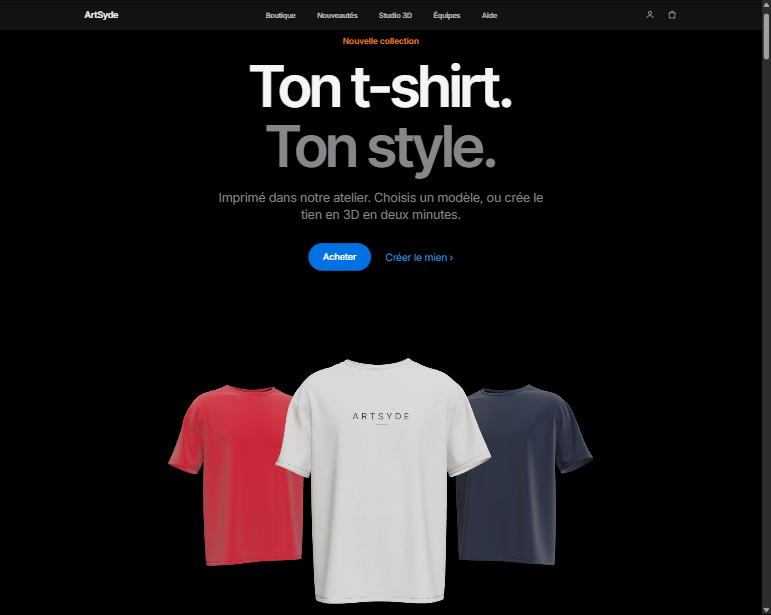
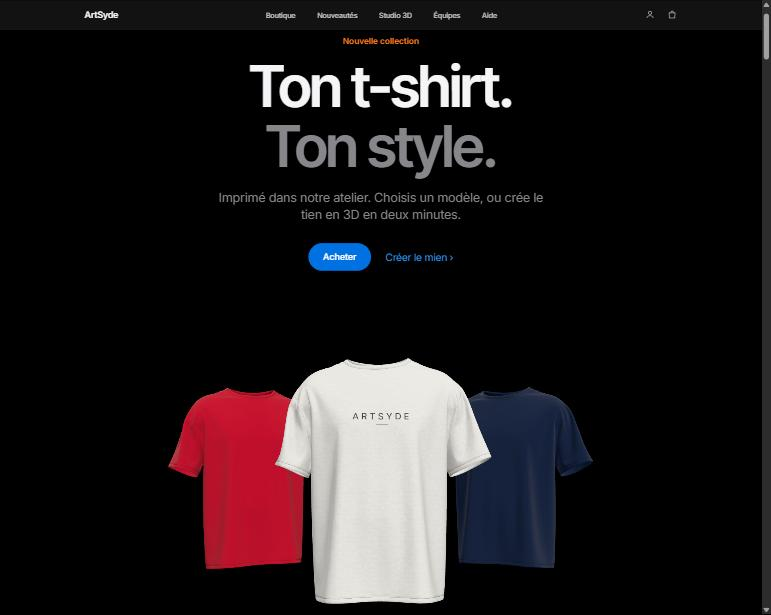
Couleurs du t-shirt 3D fidèles à la couleur choisie
- Tone mapping Khronos PBR Neutral au lieu d'ACES (couleurs produit justes)
- Reflet du coton teinté par la couleur du t-shirt, avec un léger plancher
  de lumière pour garder les plis des teintes foncées
- Lumière de contour pour détacher les t-shirts foncés du fond sombre
- Capture de l'accueil du README mise à jour

Changed region(s): [[0.5914, 0.6179, 0.7782, 0.9268], [0.2179, 0.6179, 0.4047, 0.9268]]

diff --git a/src/components/story/teeModel.ts b/src/components/story/teeModel.ts
@@ -59,7 +59,8 @@ export function printMaterial(box: THREE.Box3, front: THREE.Texture, back: THREE
     uFrontOpacity: { value: 1 },
     uBackOpacity: { value: 1 },
   };
-  const mat = new THREE.MeshPhysicalMaterial({ roughness: 1, metalness: 0, sheen: 0.5, sheenRoughness: 0.8, sheenColor: new THREE.Color("#bbbbbb"), envMapIntensity: 0.55, side: THREE.DoubleSide });
+  // Cotton: fully rough, with a soft sheen in the fabric's own colour (see tintSheen), never a grey veil.
+  const mat = new THREE.MeshPhysicalMaterial({ roughness: 1, metalness: 0, sheen: 0.4, sheenRoughness: 0.85, envMapIntensity: 0.55, side: THREE.DoubleSide });
   mat.onBeforeCompile = (shader) => {
     Object.assign(shader.uniforms, uniforms);
     shader.vertexShader = shader.vertexShader
@@ -88,6 +89,28 @@ export function printMaterial(box: THREE.Box3, front: THREE.Texture, back: THREE
   };
   mat.customProgramCacheKey = () => "tee-print";
   return { mat, uniforms };
+}
+
+/**
+ * Sheen in the tee's own colour, slightly lighter: how cotton catches the light. A small floor of
+ * light keeps dark tees readable (folds, edges) without greying them. Call after changing `mat.color`.
+ */
+export function tintSheen(mat: THREE.MeshPhysicalMaterial) {
+  mat.sheenColor.copy(mat.color).lerp(WHITE, 0.15);
+  mat.sheenColor.r = Math.min(1, mat.sheenColor.r + SHEEN_FLOOR);
+  mat.sheenColor.g = Math.min(1, mat.sheenColor.g + SHEEN_FLOOR);
+  mat.sheenColor.b = Math.min(1, mat.sheenColor.b + SHEEN_FLOOR);
+}
+const WHITE = new THREE.Color("#ffffff");
+const SHEEN_FLOOR = 0.08; // linear
+
+/**
+ * Colour-true rendering for the tee scenes: Khronos PBR Neutral tone mapping keeps a product's
+ * colours as chosen (the default filmic curve dulls reds and lifts blacks). Use in `onCreated`.
+ */
+export function colorTrue(gl: THREE.WebGLRenderer) {
+  gl.toneMapping = THREE.NeutralToneMapping;
+  gl.toneMappingExposure = 1.12; // the fabric's lit side lands on the chosen colour, folds stay darker
 }
 
 /** Home page demo prints, drawn on full print-area canvases at chest / upper-back height. */

diff --git a/src/components/story/TeeScene.tsx b/src/components/story/TeeScene.tsx
@@ -8,7 +8,7 @@ import { TEE_COLORS } from "@/lib/data";
 import { cubicBezier } from "motion/react";
 import { DUR, EASE } from "@/lib/motion";
 import { teeState } from "./teeState";
-import { TEE_HEIGHT, TEE_WIDTH, canvasTexture, printMaterial, stickerTexture, useTeeModel } from "./teeModel";
+import { TEE_HEIGHT, TEE_WIDTH, canvasTexture, colorTrue, printMaterial, stickerTexture, tintSheen, useTeeModel } from "./teeModel";
 
 const tmpA = new THREE.Color();
 const tmpTarget = new THREE.Color();
@@ -84,6 +84,7 @@ function Tee({ front: frontCanvas, back: backCanvas, play }: Props & { play: Pla
     g.rotation.x += (-teeState.pointerY * 0.15 * teeState.parallax - g.rotation.x) * k;
     if (teeState.hex) mat.color.lerp(tmpTarget.set(teeState.hex), k);
     else colorAt(teeState.colorT, mat.color);
+    tintSheen(mat);
     uniforms.uFrontOpacity.value = studio ? 1 : teeState.design;
 
     // Entrance, on its own inner group so it never fights the scroll / pointer values above.
@@ -127,6 +128,7 @@ export default function TeeScene(props: Props) {
   return (
     <Canvas dpr={[1, 1.75]} camera={{ position: [0, 0, 6.2], fov: 35 }} gl={{ antialias: true, alpha: true, preserveDrawingBuffer: props.preserve }}
       onCreated={({ gl }) => {
+        colorTrue(gl);
         // Start the entrance when a third of the canvas is visible (the home story sits below the fold).
         seenOnScreen.current = new IntersectionObserver(
           ([e]) => {
@@ -141,6 +143,8 @@ export default function TeeScene(props: Props) {
     >
       <ambientLight intensity={0.35} />
       <directionalLight position={[3, 4, 5]} intensity={1.4} />
+        {/* Rim light from behind: outlines the tee, so dark colours stay readable on a dark page. */}
+        <directionalLight position={[-3, 3, -5]} intensity={0.9} />
       {/* Studio lighting built in code (no HDR download) */}
       <Environment resolution={256}>
         <Lightformer intensity={2.2} position={[0, 3, 4]} scale={[10, 3, 1]} />

diff --git a/src/components/story/HeroTees.tsx b/src/components/story/HeroTees.tsx
@@ -6,7 +6,7 @@ import { Canvas, useFrame } from "@react-three/fiber";
 import { ContactShadows, Environment, Float, Lightformer } from "@react-three/drei";
 import { cubicBezier } from "motion/react";
 import { DUR, EASE } from "@/lib/motion";
-import { TEE_HEIGHT, emptyTexture, printMaterial, stickerTexture, useTeeModel } from "./teeModel";
+import { TEE_HEIGHT, colorTrue, emptyTexture, printMaterial, stickerTexture, tintSheen, useTeeModel } from "./teeModel";
 import { heroState } from "./heroState";
 
 /*
@@ -33,6 +33,7 @@ function Tees() {
         const { mat } = printMaterial(box, front, back);
         Object.assign(mat, maps);
         mat.color.set(t.color);
+        tintSheen(mat);
         return { mat, front, back };
       }),
     [box, maps],
@@ -93,9 +94,14 @@ export default function HeroTees() {
 
   return (
     <div ref={wrap} className="absolute inset-0">
-      <Canvas dpr={[1, 1.75]} frameloop={onScreen ? "always" : "never"} camera={{ position: [0, 0, 6.2], fov: 35 }} gl={{ antialias: true, alpha: true }} onCreated={({ gl }) => void (gl.domElement.style.opacity = "0")}>
+      <Canvas dpr={[1, 1.75]} frameloop={onScreen ? "always" : "never"} camera={{ position: [0, 0, 6.2], fov: 35 }} gl={{ antialias: true, alpha: true }} onCreated={({ gl }) => {
+          colorTrue(gl);
+          gl.domElement.style.opacity = "0";
+        }}>
         <ambientLight intensity={0.35} />
         <directionalLight position={[3, 4, 5]} intensity={1.4} />
+        {/* Rim light from behind: outlines the tee, so dark colours stay readable on a dark page. */}
+        <directionalLight position={[-3, 3, -5]} intensity={0.9} />
         <Environment resolution={256}>
           <Lightformer intensity={2.2} position={[0, 3, 4]} scale={[10, 3, 1]} />
           <Lightformer intensity={0.9} position={[-5, 0, 2]} scale={[3, 8, 1]} />
